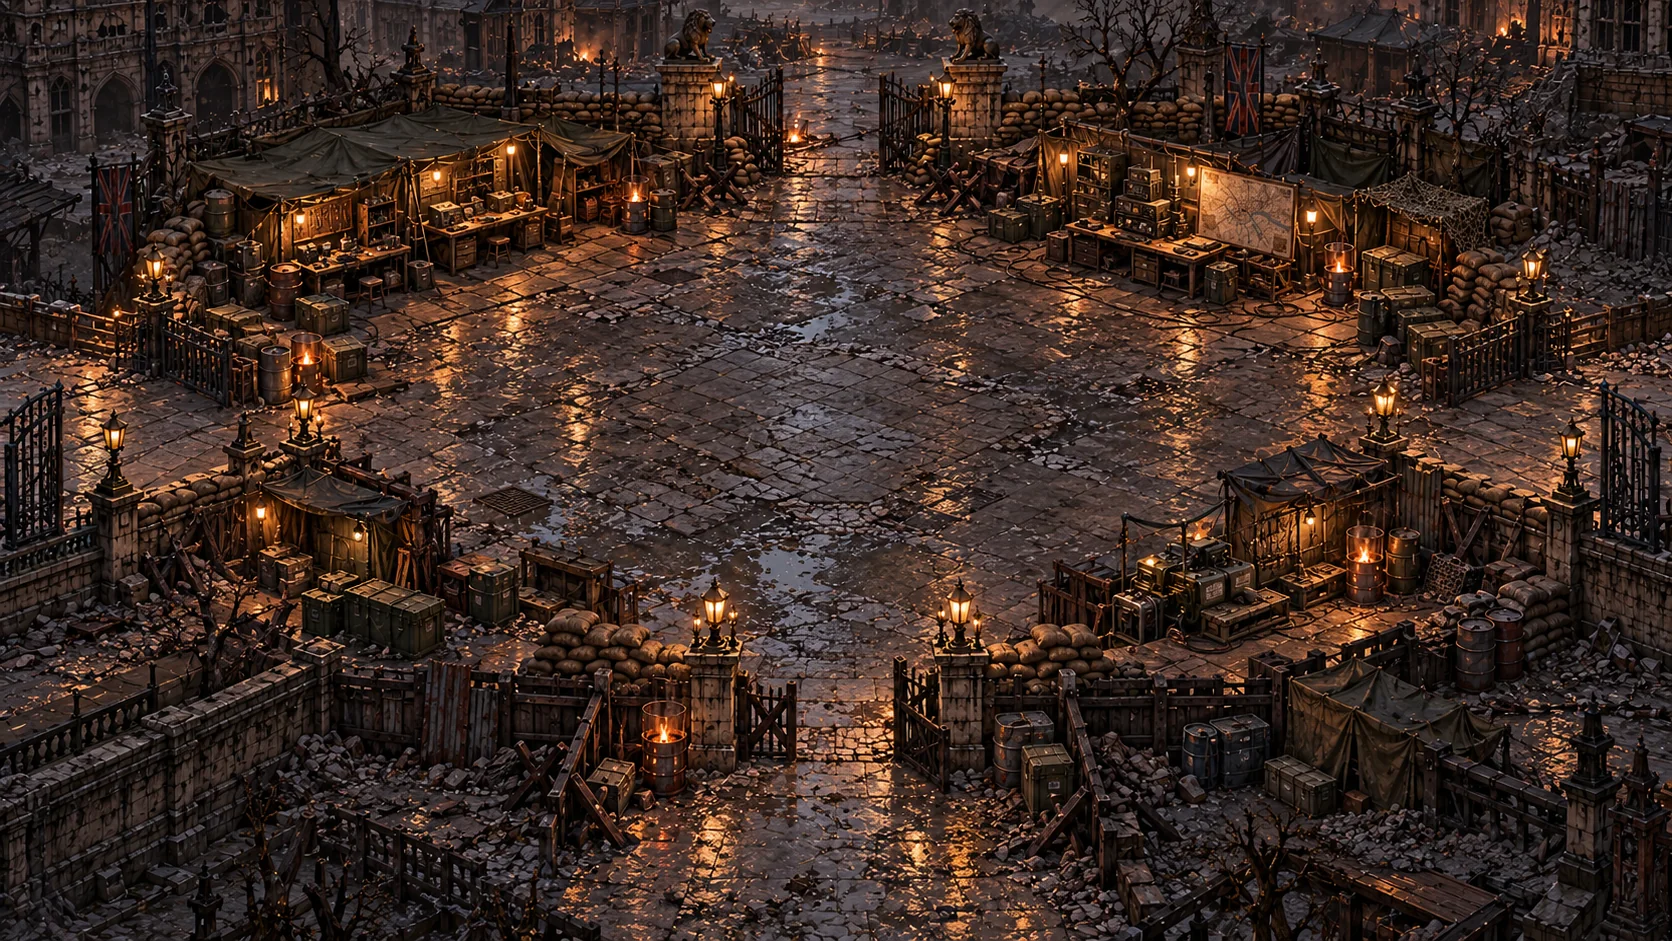
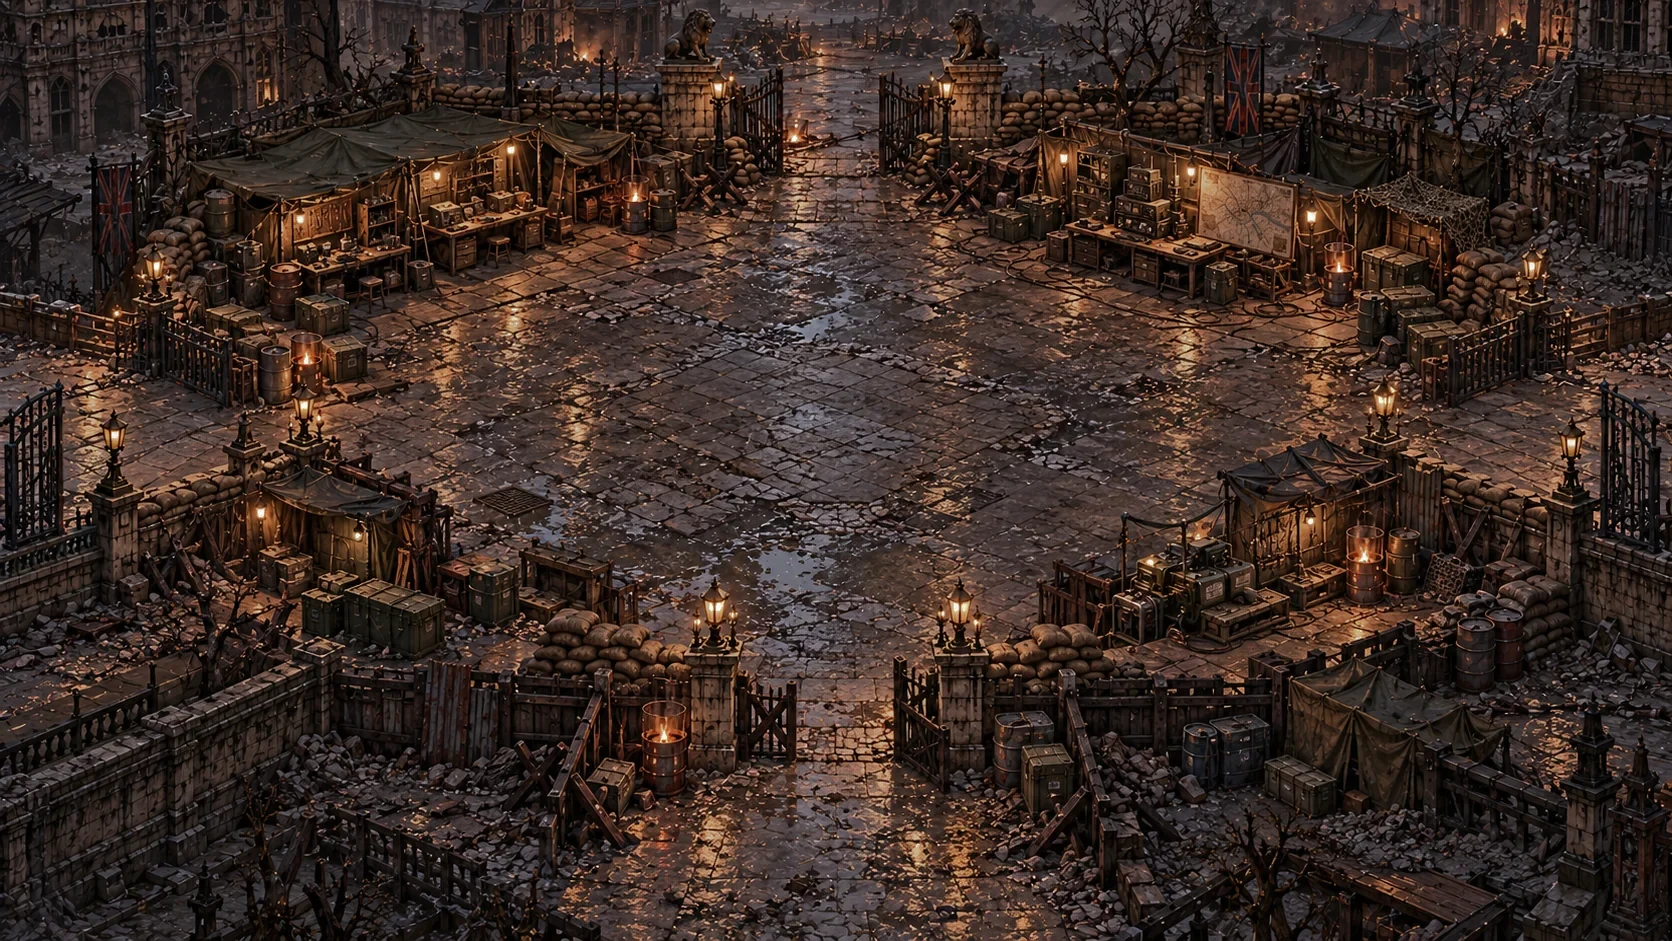
Colour-graded phone backdrops for six areas (owner approved), re-pinned

diff --git a/art/backdrop-grade/grade.py b/art/backdrop-grade/grade.py
@@ -1,0 +1,144 @@
+"""Repeatable colour grade: six later areas toward the westminster/east/south look.
+Colour/tone only; same pixel grid. Usage: python grade.py"""
+import io, json, numpy as np, cv2
+from PIL import Image, ImageDraw
+from stats import REF, TGT, load, stats, table
+
+P = dict(
+    hue_lo=12.0, hue_hi=48.0, hue_feather=10.0,   # warm hue band (deg), soft edges
+    chroma_cut=0.55,        # max chroma reduction of strongly warm highlights (fraction)
+    chroma_cut_mid=0.25,    # chroma reduction of warm mid tones
+    lum_knee=42.0,          # L* above which warm highlights are compressed
+    lum_ratio=0.45,         # slope above knee for fully warm pixels (1 = none)
+    glow_sigma=14.0,        # px; low-frequency warm glow is pulled down extra
+    glow_cut=0.35,          # fraction of warm low-freq glow removed (cores kept)
+    ab_mean=0.6, ab_std=0.6,  # partial Reinhard match of LAB a/b to reference pool
+    l_match=0.5,            # partial histogram match of L* to reference pool
+)
+AREA_STRENGTH = {'area8': 1.0, 'area7': 1.0, 'east-bridge': 1.0, 'central-hub': 0.6,
+                 'lambeth': 1.0, 'elephant-and-castle': 1.0}
+
+
+def smooth(x):
+    x = np.clip(x, 0, 1)
+    return x * x * (3 - 2 * x)
+
+
+def to_lab(rgb):
+    lab = cv2.cvtColor(rgb.astype(np.float32) / 255, cv2.COLOR_RGB2Lab)
+    return lab[..., 0], lab[..., 1], lab[..., 2]
+
+
+def from_lab(L, a, b):
+    out = cv2.cvtColor(np.dstack([L, a, b]).astype(np.float32), cv2.COLOR_Lab2RGB)
+    return np.clip(out * 255 + 0.5, 0, 255).astype(np.uint8)
+
+
+def warm_weight(a, b, L):
+    """soft 0..1 weight of 'orange' pixels from LAB hue angle (deg) and chroma."""
+    hue = (np.degrees(np.arctan2(b, a)) + 360) % 360   # LAB hue: orange approx 50-80 deg
+    # map HSV 12-48 deg onto LAB hue band
+    lo, hi, f = P['hue_lo'] + 38, P['hue_hi'] + 38, P['hue_feather']
+    w = smooth((hue - (lo - f)) / f) * smooth(((hi + f) - hue) / f)
+    chroma = np.hypot(a, b)
+    return w * smooth((chroma - 6) / 20)
+
+
+def reference_pool():
+    ab, Ls = [], []
+    for n in REF:
+        L, a, b = to_lab(load(f'src/{n}/backdrop-phone.webp'))
+        Ls.append(L.ravel()[::7]); ab.append(np.stack([a.ravel()[::7], b.ravel()[::7]], 1))
+    ab = np.concatenate(ab); Ls = np.concatenate(Ls)
+    return dict(a_m=float(ab[:, 0].mean()), a_s=float(ab[:, 0].std()),
+                b_m=float(ab[:, 1].mean()), b_s=float(ab[:, 1].std()), L=np.sort(Ls))
+
+
+def grade(rgb, ref, k):
+    L, a, b = to_lab(rgb)
+    # 1. hue-targeted desaturation + compression of warm highlights
+    w = warm_weight(a, b, L) * k
+    hl = smooth((L - 30) / 40)                      # highlight-ness
+    cut = P['chroma_cut_mid'] + (P['chroma_cut'] - P['chroma_cut_mid']) * hl
+    scale = 1 - w * cut
+    a, b = a * scale, b * scale
+    over = np.maximum(L - P['lum_knee'], 0)
+    L = L - w * over * (1 - P['lum_ratio'])
+    # 2. kill big warm blooms but leave small lamp cores: remove part of the blurred warm excess
+    wb = cv2.GaussianBlur(w, (0, 0), P['glow_sigma'])
+    Lb = cv2.GaussianBlur(L, (0, 0), P['glow_sigma'])
+    ex = np.maximum(Lb - cv2.GaussianBlur(L, (0, 0), P['glow_sigma'] * 6), 0)
+    core = np.maximum(L - Lb, 0)                    # local peak above its surroundings = core, kept
+    L = L - P['glow_cut'] * k * wb * ex
+    L = L + 0  # core detail preserved because only the blurred excess is subtracted
+    # 3. partial Reinhard match of a/b to the reference pool
+    for ch, key in ((0, 'a'), (1, 'b')):
+        x = a if ch == 0 else b
+        m, s = x.mean(), x.std() + 1e-6
+        tm, ts = ref[key + '_m'], ref[key + '_s']
+        m2 = m + P['ab_mean'] * k * (tm - m)
+        s2 = s * (1 + P['ab_std'] * k * (min(ts / s, 1.0) - 1))
+        x = (x - m) * (s2 / s) + m2
+        if ch == 0: a = x
+        else: b = x
+    # 4. partial L histogram match to reference pool
+    flat = L.ravel()
+    order = np.argsort(flat)
+    ranks = np.empty(flat.size, np.float32); ranks[order] = np.linspace(0, 1, flat.size)
+    target = np.interp(ranks, np.linspace(0, 1, ref['L'].size), ref['L'])
+    sm = P['l_match'] * k
+    Lm = (1 - sm) * flat + sm * target
+    # never brighten lamp-free areas above their original; matching only pulls tone
+    L = np.minimum(Lm, flat + 3).reshape(L.shape)
+    return from_lab(L, a, b)
+
+
+def encode(img, target_bytes):
+    best = None
+    for q in range(60, 96):
+        buf = io.BytesIO(); img.save(buf, 'WEBP', quality=q, method=6)
+        best = (q, buf.getvalue())
+        if len(best[1]) >= target_bytes: break
+    return best
+
+
+def label(im, text):
+    d = ImageDraw.Draw(im); d.rectangle([0, 0, 190, 22], fill=(0, 0, 0)); d.text((6, 5), text, fill=(255, 255, 255))
+    return im
+
+
+if __name__ == '__main__':
+    import os
+    ref = reference_pool()
+    json.dump(dict(params=P, area_strength=AREA_STRENGTH, reference_pool={k: v for k, v in ref.items() if k != 'L'},
+                   webp='method 6, quality chosen per image to match source byte size'),
+              open('params.json', 'w'), indent=1)
+    res = {}
+    for n in TGT:
+        sp = f'src/{n}/backdrop-phone.webp'
+        src = Image.open(sp).convert('RGB')
+        out = grade(np.asarray(src), ref, AREA_STRENGTH[n])
+        im = Image.fromarray(out)
+        assert im.size == src.size
+        q, data = encode(im, os.path.getsize(sp))
+        os.makedirs(f'out/{n}', exist_ok=True)
+        open(f'out/{n}/backdrop-phone.webp', 'wb').write(data)
+        res[n] = dict(quality=q, bytes=len(data), src_bytes=os.path.getsize(sp))
+        # compare
+        g = Image.open(f'out/{n}/backdrop-phone.webp').convert('RGB')
+        w = 800; h = round(src.size[1] * w / src.size[0])
+        c = Image.new('RGB', (1600, h))
+        c.paste(label(src.resize((w, h), Image.LANCZOS), f'{n} BEFORE'), (0, 0))
+        c.paste(label(g.resize((w, h), Image.LANCZOS), f'{n} AFTER'), (w, 0))
+        c.save(f'compare/{n}.jpg', quality=80)
+    ref_imgs = [Image.open(f'src/{n}/backdrop-phone.webp').convert('RGB').resize((533, 300), Image.LANCZOS) for n in REF]
+    s = Image.new('RGB', (1599, 300))
+    for i, (n, im) in enumerate(zip(REF, ref_imgs)):
+        s.paste(label(im, n), (i * 533, 0))
+    s.save('compare/reference.jpg', quality=80)
+    t0, r0 = table([(n, f'src/{n}/backdrop-phone.webp') for n in REF + TGT], 'Before (source)')
+    t1, r1 = table([(n, f'out/{n}/backdrop-phone.webp') for n in TGT], 'After (graded)')
+    enc = '\n### Encoding\n\n' + '\n'.join(f'- {n}: q{v["quality"]}, {v["bytes"]} B (source {v["src_bytes"]} B)' for n, v in res.items())
+    open('stats.md', 'w').write('# Backdrop stats\n\nbright orange = hue 15-45 deg, S>0.5, V>0.6 (HSV). warm hi = hue 15-45, V>0.6. '
+                                'L is CIE L* 0-100.\n\n' + t0 + '\n' + t1 + enc + '\n')
+    print(t1 + enc)

diff --git a/art/backdrop-grade/stats.md b/art/backdrop-grade/stats.md
@@ -1,0 +1,37 @@
+# Backdrop stats
+
+bright orange = hue 15-45 deg, S>0.5, V>0.6 (HSV). warm hi = hue 15-45, V>0.6. L is CIE L* 0-100.
+
+### Before (source)
+
+|area|meanL|p95L|p99L|warm sat (15-45deg)|warm hi sat (V>.6)|warm hi %|bright orange %|mean S|a*|b*|R/B|
+|-|-|-|-|-|-|-|-|-|-|-|-|
+|westminster|21.9|48.2|63.1|0.375|0.441|3.60|0.802|0.317|5.1|5.8|1.45|
+|east|21.9|51.0|70.2|0.408|0.499|5.15|3.009|0.352|6.2|7.0|1.56|
+|south|18.5|44.7|63.5|0.464|0.457|2.62|0.971|0.422|5.7|6.7|1.63|
+|area8|24.6|62.0|79.2|0.660|0.613|10.43|7.733|0.628|14.1|15.3|2.47|
+|area7|26.3|65.1|82.4|0.681|0.653|13.88|11.711|0.635|15.2|17.1|2.58|
+|east-bridge|24.8|59.2|78.8|0.557|0.543|8.60|5.435|0.502|10.5|11.4|1.92|
+|central-hub|19.5|49.8|70.6|0.550|0.515|4.43|2.347|0.455|6.6|7.1|1.68|
+|lambeth|21.8|59.2|78.4|0.612|0.572|8.93|6.323|0.547|10.2|11.2|2.07|
+|elephant-and-castle|26.2|64.3|82.0|0.621|0.611|11.83|8.896|0.572|13.2|14.6|2.24|
+
+### After (graded)
+
+|area|meanL|p95L|p99L|warm sat (15-45deg)|warm hi sat (V>.6)|warm hi %|bright orange %|mean S|a*|b*|R/B|
+|-|-|-|-|-|-|-|-|-|-|-|-|
+|area8|21.9|49.4|61.2|0.482|0.406|3.13|1.044|0.456|8.2|8.6|1.73|
+|area7|22.6|49.8|62.0|0.489|0.361|2.82|0.530|0.460|8.3|9.0|1.74|
+|east-bridge|22.1|49.0|62.0|0.450|0.339|2.59|0.290|0.411|7.0|7.6|1.62|
+|central-hub|19.6|47.8|63.1|0.499|0.405|2.97|0.673|0.420|6.0|6.4|1.58|
+|lambeth|20.6|48.6|60.8|0.475|0.329|2.44|0.111|0.420|6.8|7.4|1.64|
+|elephant-and-castle|22.6|49.8|62.0|0.468|0.378|3.06|0.745|0.430|7.8|8.4|1.68|
+
+### Encoding
+
+- area8: q92, 555662 B (source 550132 B)
+- area7: q91, 571818 B (source 550482 B)
+- east-bridge: q92, 503266 B (source 488870 B)
+- central-hub: q88, 511722 B (source 509606 B)
+- lambeth: q90, 541058 B (source 519312 B)
+- elephant-and-castle: q92, 515708 B (source 513572 B)
